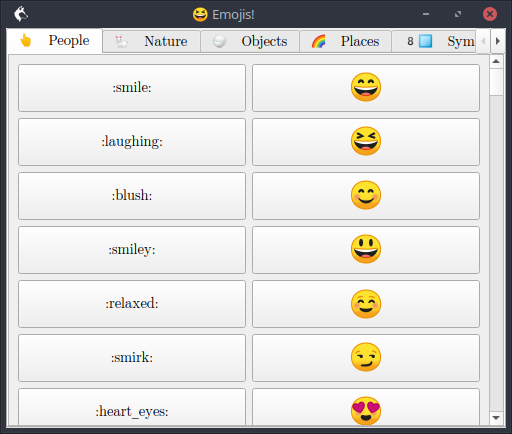
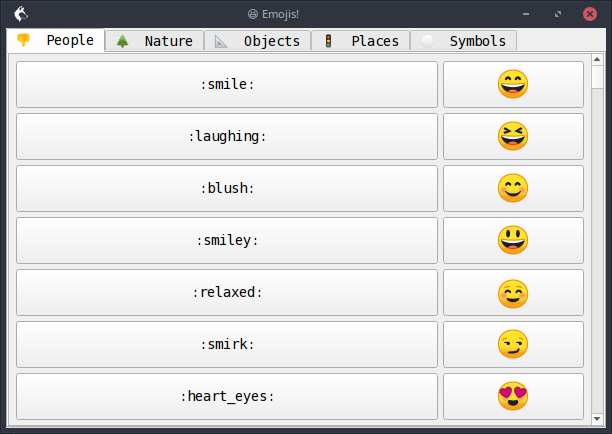
Add NotoColorEmoji to tray

diff --git a/src/index.ts b/src/index.ts
@@ -1,5 +1,6 @@
 import {
   QMainWindow,
+  QMainWindowSignals,
   QWidget,
   QScrollArea,
   QLabel,
@@ -13,15 +14,16 @@ import {
   QApplication,
   QClipboardMode,
   QSystemTrayIcon,
-  QSystemTrayIconEvents,
-  QFontDatabase
+  QFontDatabase,
+  QFont,
 } from "@nodegui/nodegui";
 import path from "path";
+import { EventWidget, WidgetEventTypes } from "@nodegui/nodegui/dist/lib/core/EventWidget";
 const emojis = require("./emojis.json");
-const font = require("./fonts/NotoColorEmoji.ttf");
+const notoFont = require("./fonts/NotoColorEmoji.ttf");
 
 const id = QFontDatabase.addApplicationFont(
-  path.resolve(__dirname, font.default)
+  path.resolve(__dirname, notoFont.default)
 );
 
 const clipboard = QApplication.clipboard();
@@ -49,8 +51,8 @@ function createTab({ category, data }) {
     itemEmoji.addEventListener("clicked", () => {
       clipboard.setText(item.emoji, QClipboardMode.Clipboard);
     });
-    itemBox.addWidget(itemText);
-    itemBox.addWidget(itemEmoji);
+    itemBox.addWidget(itemText, 3);
+    itemBox.addWidget(itemEmoji,1);
     listBox.addLayout(itemBox);
   });
   const randomIndex = Math.floor(Math.random() * data.length);
@@ -92,14 +94,12 @@ function separator() {
   return separator;
 }
 
-tray.addEventListener(QSystemTrayIconEvents.messageClicked, e =>
-  console.log("triggered", e)
-);
-tray.addEventListener(QSystemTrayIconEvents.activated, e => {
+tray.addEventListener("activated", e => {
   if (e == 3) toggleWindow();
 });
 
 menu.addAction(separator());
+const font = new QFont("NotoColorEmoji", 20)
 
 function categorySubMenu({ category, data }) {
   const actionWithSubmenu = new QAction();
@@ -108,8 +108,9 @@ function categorySubMenu({ category, data }) {
   data.forEach(({ emoji, text }) => {
     const emojiAction = new QAction();
     emojiAction.setText(emoji);
-    //emojiAction.setProperty('toolTip', text)
-    //emojiAction.setProperty('objectName', "emojiAction")
+    emojiAction.setFont(font)
+    emojiAction.setProperty('toolTip', text)
+    emojiAction.setProperty('objectName', "action")
     emojiAction.addEventListener("triggered", () => {
       clipboard.setText(emoji, QClipboardMode.Clipboard);
     });
@@ -142,9 +143,11 @@ const tabs = new QTabWidget();
 emojis.forEach(cat => {
   createTab(cat);
 });
-
-win.resize(500, 400);
-win.setMinimumSize(500, 400);
+win.addEventListener(WidgetEventTypes.MouseButtonPress,()=>{
+  console.log('press')
+} )
+win.resize(600, 400);
+win.setMinimumSize(600, 400);
 
 win.setCentralWidget(tabs);
 win.setStyleSheet(
@@ -159,6 +162,9 @@ win.setStyleSheet(
     * {
       font-family: "NotoColorEmoji";
       font-size: 14px;
+    }
+    #action{
+      font-family: "NotoColorEmoji";
     }
     QMenu {
       font-family: "NotoColorEmoji";
